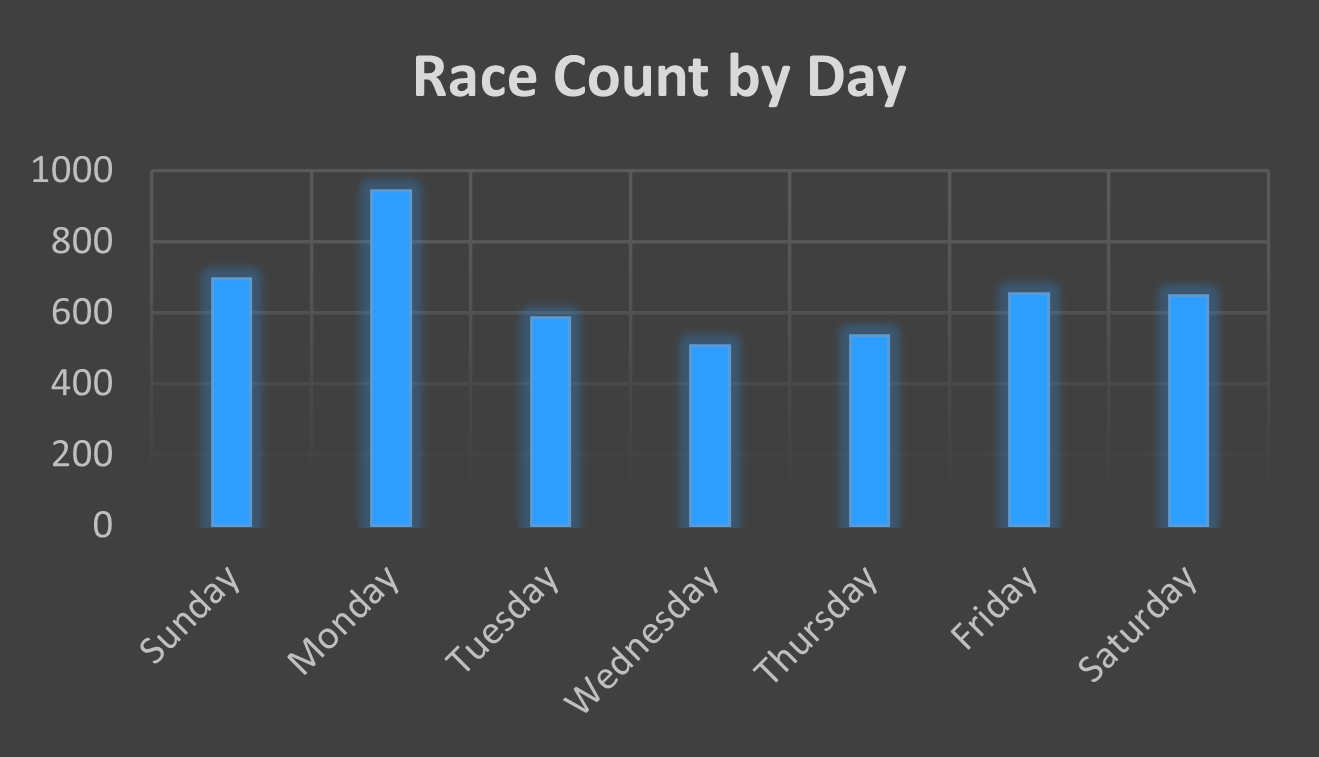
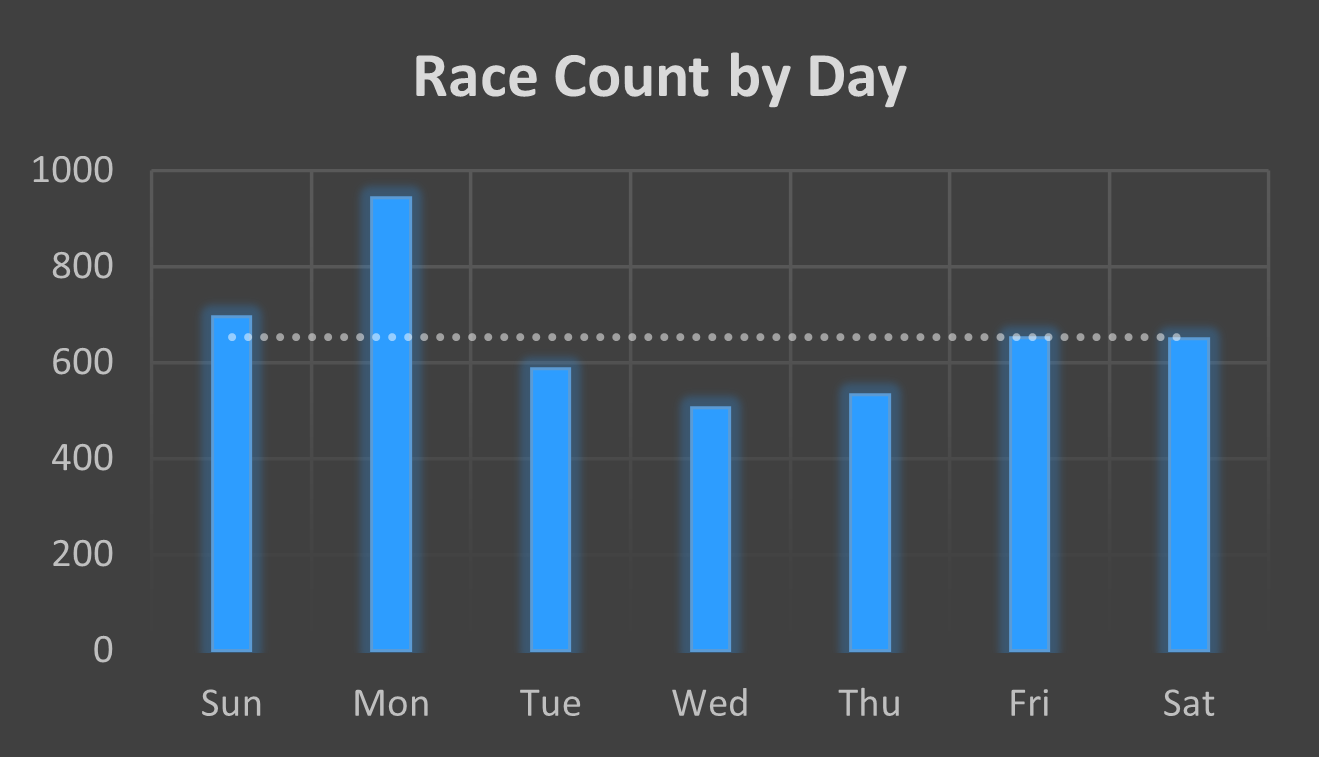
Activity subsections
-racecount subsection mostly done
-marathon subsection started
-updated charts
-tidy up some

diff --git a/typeracer.html b/typeracer.html
@@ -32,9 +32,9 @@
 
         <section class="intro">
             <p>During the summer of 2018 I decided to train myself on "proper" touch typing.
-                I was already familiar with typeracer at the time, and as soon as I found out I could download my data I knew I wanted to make a project out of it.
+                I was already familiar with typeracer, and as soon as I found out I could download my data I knew I wanted to make a project out of it.
                 <br><br>
-                This scatterplot depicts a high-level summary of my progress thus far. The following sections will explore my typeracer activity, individual race analysis, and a deep dive on my WPM improvement.
+                This scatterplot depicts a high-level summary of my progress thus far. The following sections will explore my typeracer activity, individual races, and WPM improvement.
             </p>
             <img src="./images/full-chart.png">
         </section>
@@ -46,34 +46,36 @@
         <h2>Activity</h2>
 
         <section class="racecount">
-            
-
-            <section class="flex-hori">
+            <section class="flex-col">
                 <img src="./images/charts/racecount-year.png">
-                <img src="./images/charts/racecount-month.png">
-            </section>
-
-            <p>
-                These charts illustrate my racing activity broken down by year, month, day of the week, and hour (in local time). They largely speak for themselves, but there are a few points worth discussing. 
-                <br>TODO: the horizontal line denotes the average. Put another way, it illustrates the level if all races were completed uniformly 
-            </p>
-            <p>
-                Activity in 2020 was dramatically less than that of adjacent years. One contributing factor may have been the onset of COVID and COVID restrictions in Canada. I fondly remember the mass exodus from residence during March 2020, and how the delightful chaos that ensued for the remainder of that winter semester.
-            </p>
-            <p>
-
-            </p>
-
-            <section class="flex-hori">
                 <img src="./images/charts/racecount-day.png">
+            </section>
+            <section class="flex-col">
+                <img src="./images/charts/racecount-month.png">
                 <img src="./images/charts/racecount-hour.png">
             </section>
-            
-
+            <p>
+                These charts largely speak for themselves, but there are a few points worth discussing. To preface, the horizontal dotted lines illustrate the average for that time scale. All dates and times were converted from UTC to local, and they account for daylight savings shifts.
+                <br><br>
+                Activity in 2020 was dramatically less than that of adjacent years. One contributing factor may have been the onset of COVID-19 and the turbulence that followed. I fondly look back on the mass exodus from residence during March 2020, and the delightful mess that ensued for the remainder of that semester.
+                <br><br>
+                The monthly breakdown was the most surprising to me. I have some ideas to justify each month's activity, but June is a mystery to me. It somehow has a grand total of 3 races over the course of 5 years.
+            </p>
         </section>
 
+        <section class="sectionbreak"></section>
+
+        <!-----/* TODO: FIX HYPERLINK-PARAGRAPH FLOW */------->
+        <section class="marathon">
+            <img src="./images/charts/marathons.png">
+            <p>I would like to credit <a href="https://typeracerdata.com/profile?username=tythal">typeracerdata.com</a> for the idea of marathons; however, I took a slightly different approach.
+            </p>
+        </section>
+
+        <!------------>
+
         <section class="heatmap">
-            <p>short words</p>
+            <p>~calendar heatmap~</p>
             <img src="./images/heatmap_cb.png">
         </section>
 

diff --git a/CSS/typeracer.css b/CSS/typeracer.css
@@ -1,7 +1,5 @@
-.scorebadge {
-    display:flex;
-    justify-content:center;
-    margin-top:40px;
+.sectionbreak {
+    margin:15vh;
 }
 
 h2 {
@@ -23,6 +21,7 @@ p {
     display:flex;
     flex-direction:column;
     align-items: center;
+    margin-top:40px;
 }
 
 .scorebadge > p {
@@ -30,6 +29,7 @@ p {
     margin-top:8px;
 }
 
+/*----------- Section: Intro -----------*/
 .intro {
     display:flex;
 }
@@ -40,32 +40,55 @@ p {
     height: auto;
 }
 
-.activity p {
-    text-align:center;
-    margin-left:15vw;
-    margin-right:15vw;
-}
+/*----------- Section: Activity -----------*/
 
+.activity p {
+    font-size:22px;
+    margin-right:2vw;
+    margin-left:1vw;
+    text-align: left;
+}
+/*--- Subsection: racecount ---*/
 .racecount {
     display:flex;
-    flex-direction:column;
+    flex-direction:row;
     align-items:center;
 }
 
-.flex-hori {
+.flex-col {
     display:flex;
-    flex-direction:row;
+    flex-direction:column;
     align-items:center;
     margin: 2vh;
 }
 
-.racecount img {
+.flex-col > img {
     display:flex;
-    width:20vw;
+    width:25vw;
     height:auto;
-    margin: 2vw;
+    margin-left: 1vw;
 }
 
+/*--- Subsection: marathon ---*/
+.marathon {
+    display:flex;
+    justify-content: left;
+    flex-direction: row;
+}
+
+.marathon > img {
+    display:flex;
+    width:60vw;
+    height:auto;
+    margin-left:2vw;
+}
+
+.marathon > p > a {
+    /* TODO: FIX HYPERLINK-PARAGRAPH FLOW */
+    display:inline;
+}
+
+/*--- Subsection: heatmap ---*/
 .heatmap {
     display:flex;
     flex-direction: column;
@@ -82,3 +105,4 @@ p {
     margin-bottom:10vh;
 }
 
+/*---------------------------------*/

diff --git a/CSS/style.css b/CSS/style.css
@@ -58,6 +58,7 @@ body {
 h1 {
     font-size:96px;
     text-align:center;
+    margin-top:48px;
 }
 
 nav > a:link {
